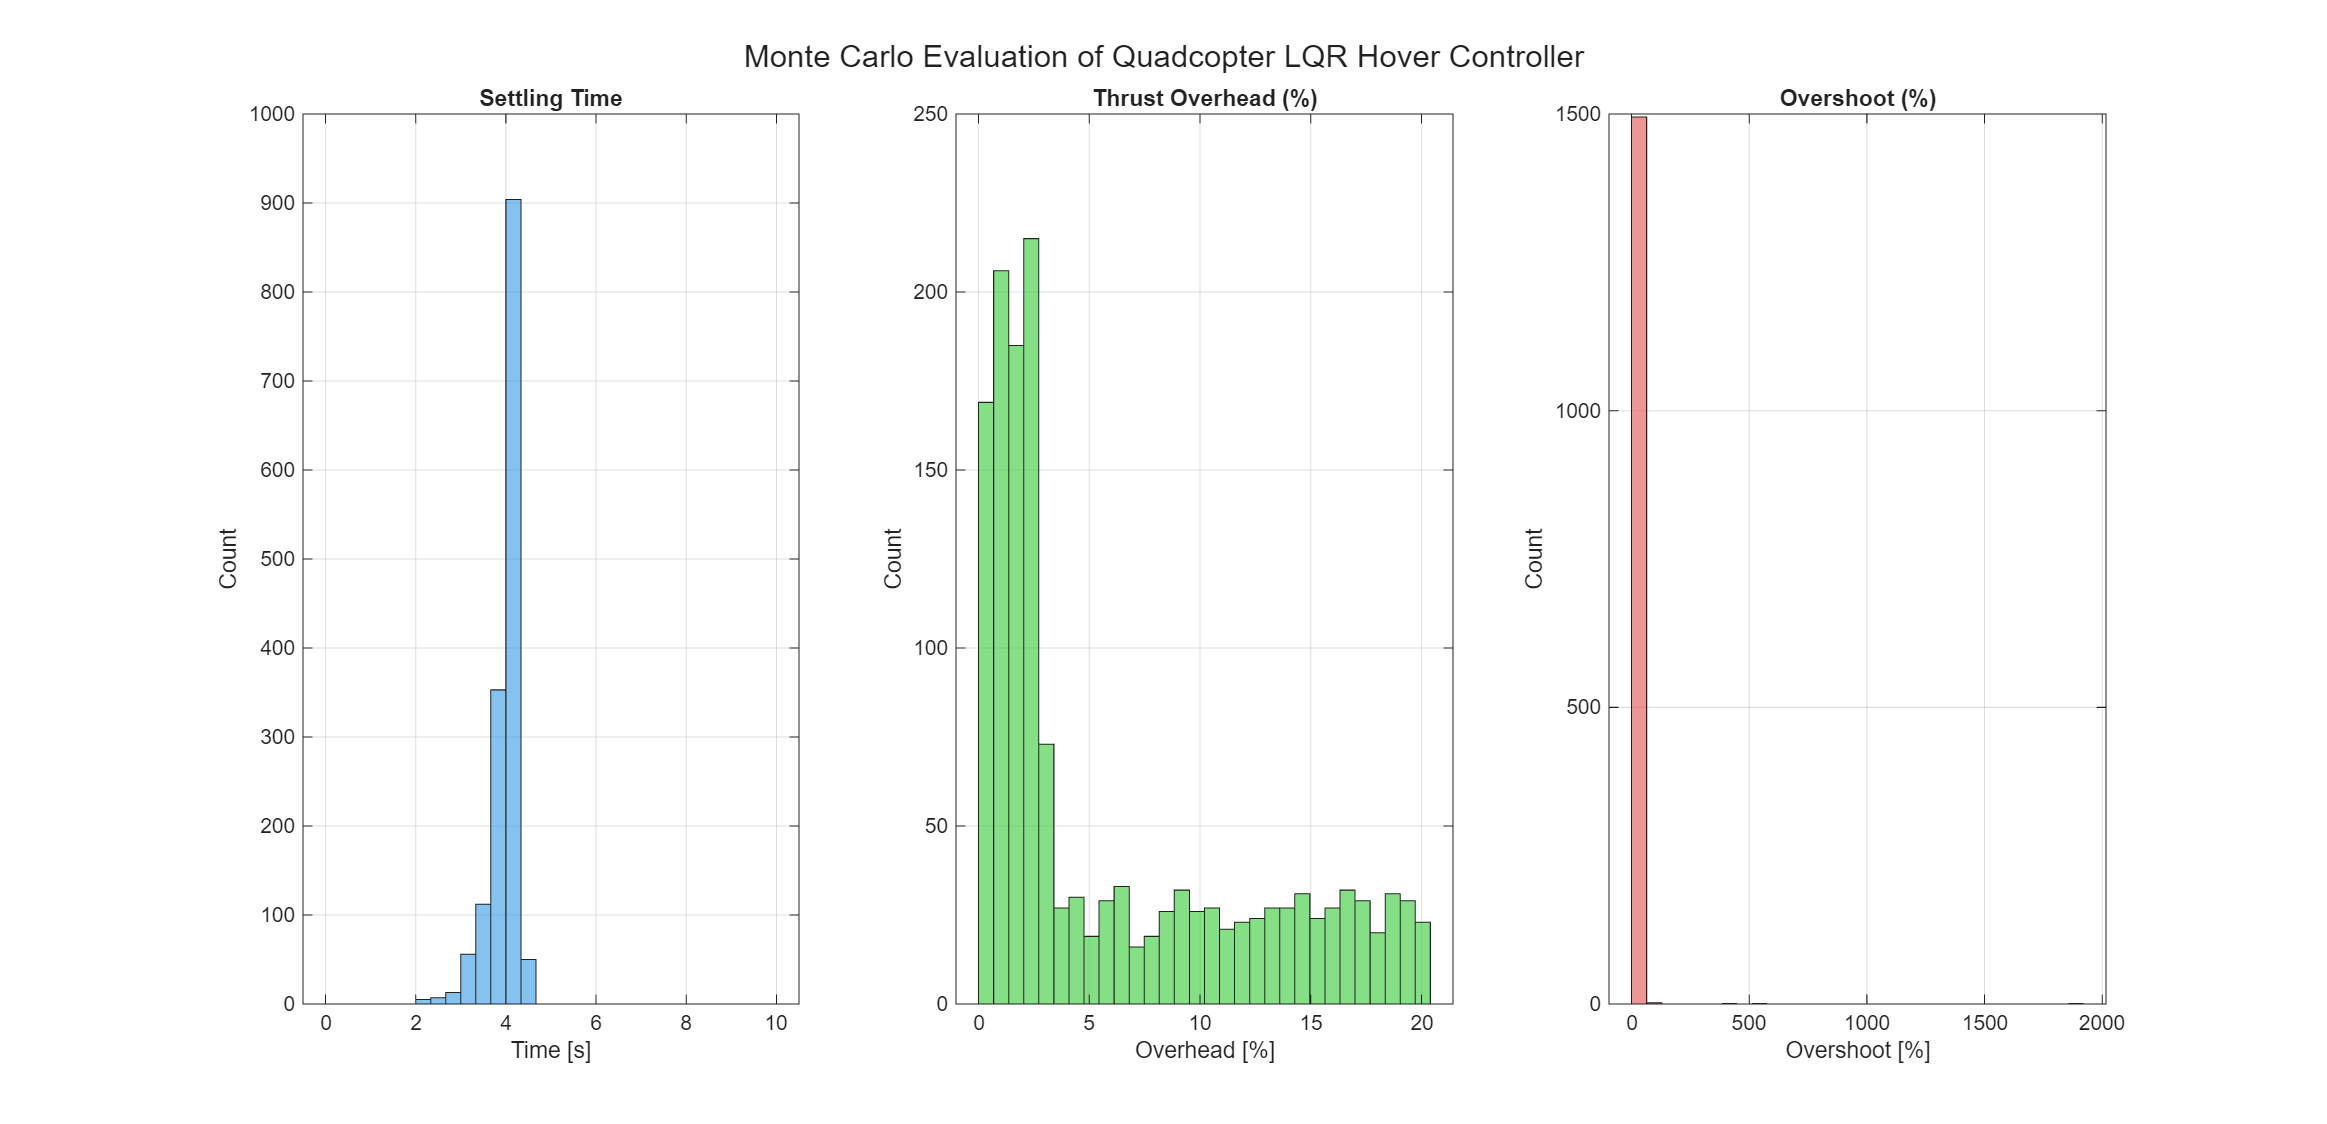
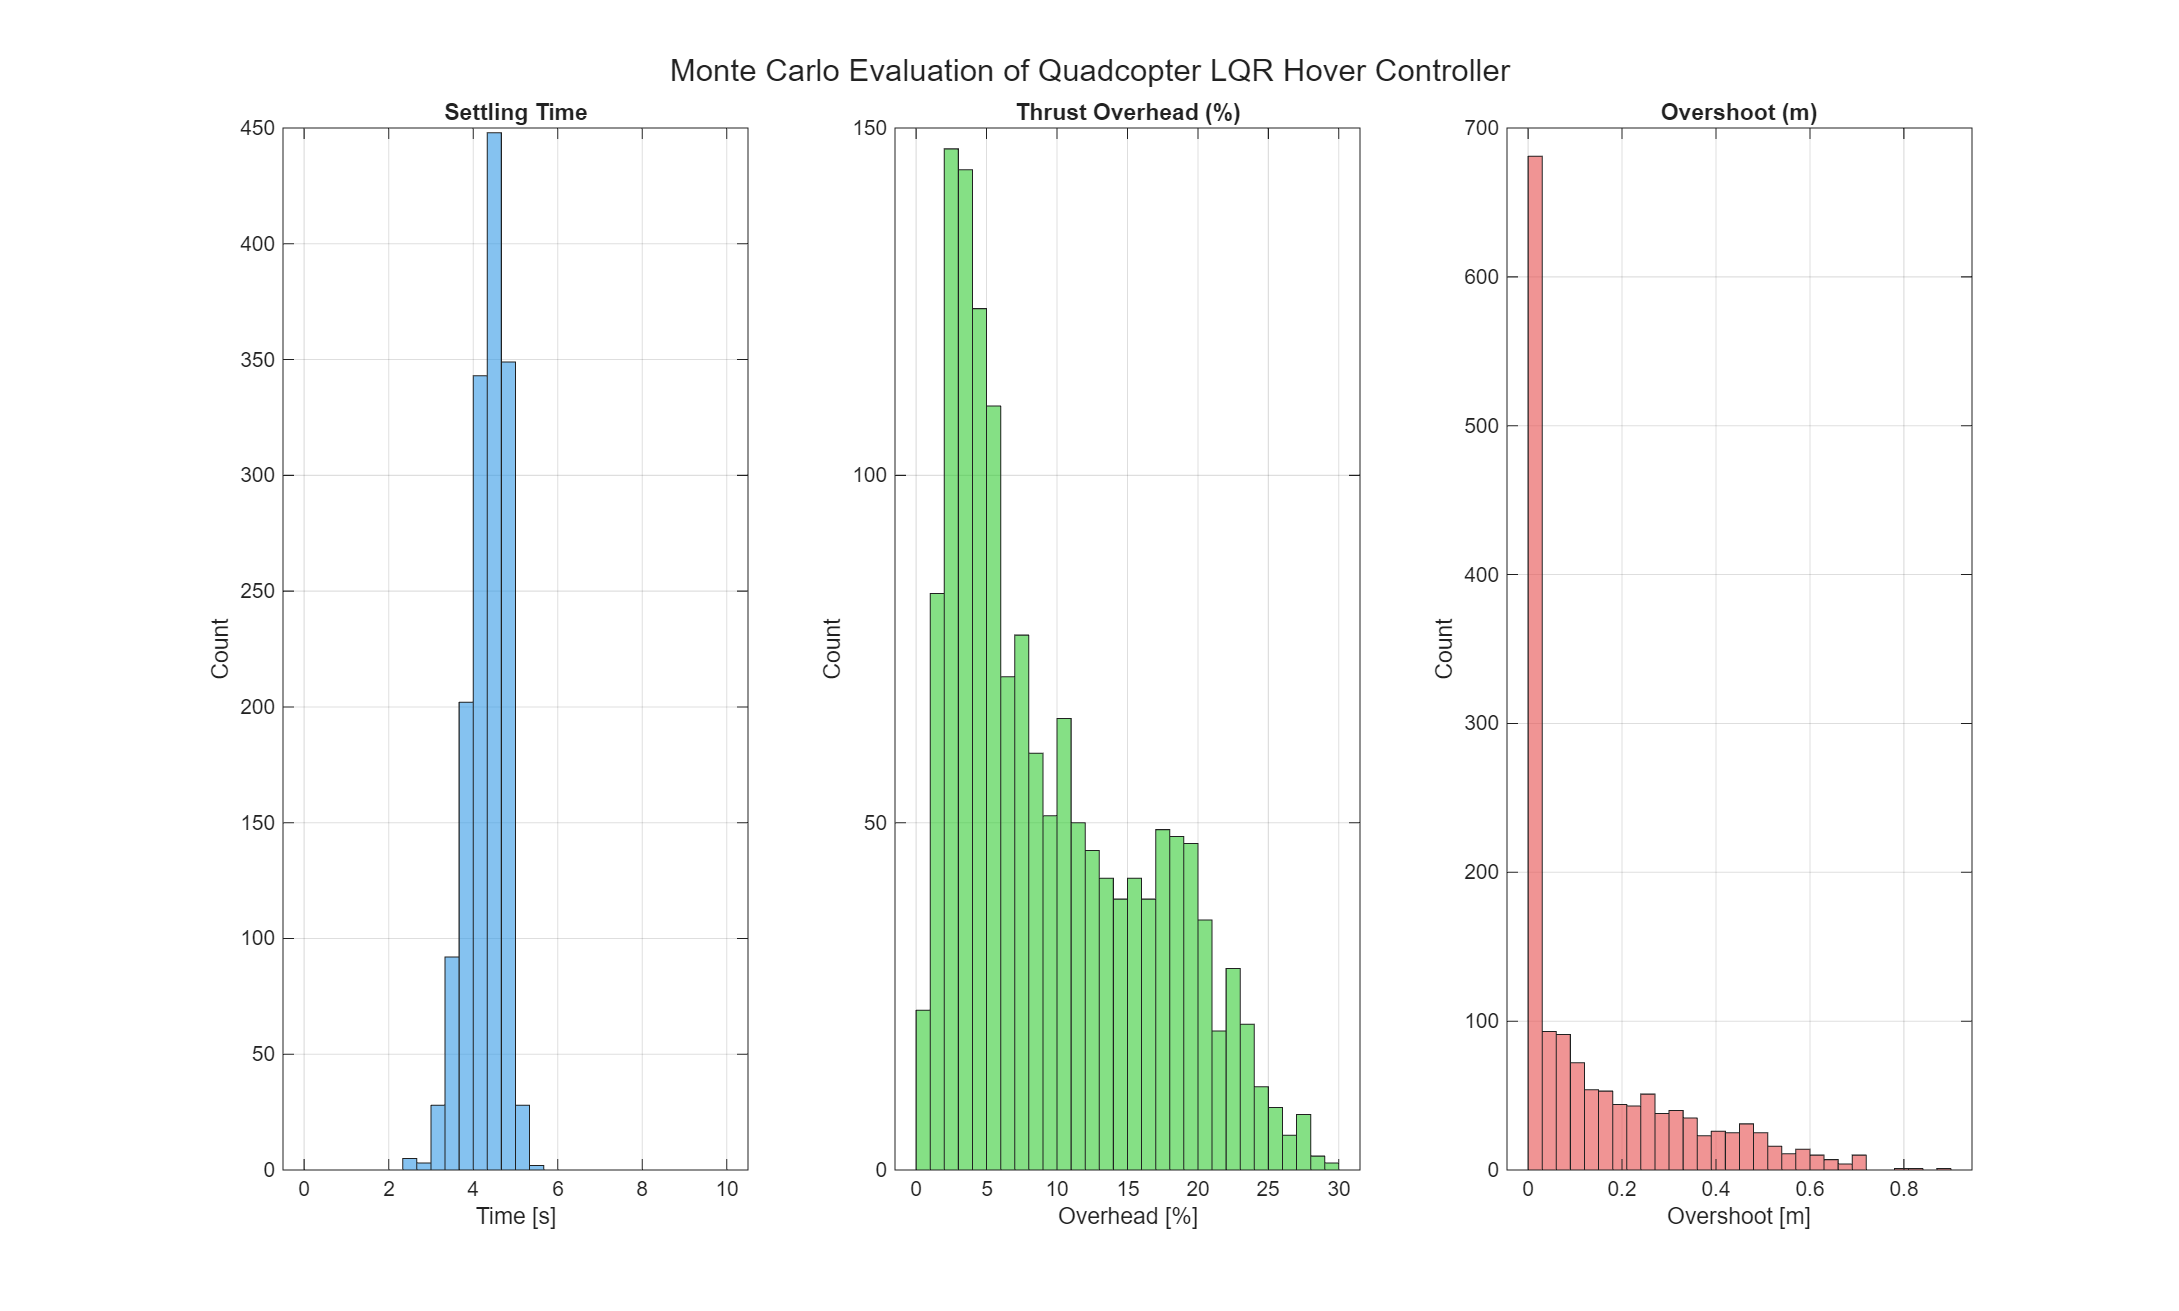
Add summary statistics to Monte Carlo simulation

diff --git a/src/monteCarloSim.m b/src/monteCarloSim.m
@@ -25,12 +25,12 @@ rng(42);
 
 % Define the bounds of the initial condition windows on each state
 initWindows = [ ...
+    -1.0 1.0; % x
+    -1.0 1.0; % y
+    -1.0 1.0; % z
     -1.0 1.0;
     -1.0 1.0;
     -1.0 1.0;
-    0.0 0.0;
-    0.0 0.0;
-    0.0 0.0;
     0.0 0.0;
     0.0 0.0;
     0.0 0.0;
@@ -78,7 +78,7 @@ didSettle = zeros(numTrials,1);
 thrustOverhead = zeros(numTrials,1);
 
 % Define storage for each trial's percent overshoot
-overshootPercent = zeros(numTrials,1);
+overshoot = zeros(numTrials,1);
 
 % Iterate trials
 for trial = 1:numTrials
@@ -171,15 +171,20 @@ for trial = 1:numTrials
     % maximum trial thrust and the hover thrust. 
     thrustOverhead(trial) = 100 * (maxThrustCommand - Fc_hover) / Fc_hover;
 
-    % Compute overshoot: Find the overshoot percent of each state over its
-    % initial condition, then take the largest from all 12. Record that as
-    % overshoot percentage.
+    % Compute overshoot: I edited this portion recently. I redefine
+    % overshoot as simply an absolute value of the maximum deflection on
+    % only positional states. (Not across all states anymore).
     overshootEachState = zeros(12,1);
-    for stateIndex = 1:12
+    for stateIndex = 1:3 % Changed to only measure states 1 to 3
         initialMagnitude = abs(initialState(stateIndex));
-        overshootEachState(stateIndex) = 100 * maxOppositeDeflection(stateIndex) / initialMagnitude;
+        if initialMagnitude > 0
+            overshootEachState(stateIndex) = maxOppositeDeflection(stateIndex);
+        else
+            % Prevent division by zero
+            overshootEachState(stateIndex) = 0;
+        end
     end
-    overshootPercent(trial) = max(overshootEachState);
+    overshoot(trial) = max(overshootEachState);
 
 end
 
@@ -193,7 +198,7 @@ medianSettle = median(settleTimes(settledIndices));
 meanSettle = mean(settleTimes(settledIndices));
 
 % Configure histogram bins (30 bins)
-edgesST = linspace(0, Tfinal, 31);
+edgesSettleTime = linspace(0, Tfinal, 31);
 
 % Plot the results
 figure;
@@ -201,7 +206,7 @@ figure;
 sgtitle('Monte Carlo Evaluation of Quadcopter LQR Hover Controller');
 
 subplot(1,3,1);
-histogram(settleTimes(settledIndices), edgesST, 'FaceColor', [0.2 0.6 0.9]);
+histogram(settleTimes(settledIndices), edgesSettleTime, 'FaceColor', [0.2 0.6 0.9]);
 title('Settling Time');
 xlabel('Time [s]'); ylabel('Count'); grid on; box on;
 
@@ -211,11 +216,41 @@ title('Thrust Overhead (%)');
 xlabel('Overhead [%]'); ylabel('Count'); grid on; box on;
 
 subplot(1,3,3);
-histogram(overshootPercent, 30, 'FaceColor', [0.9 0.3 0.3]); 
-title('Overshoot (%)');
-xlabel('Overshoot [%]'); ylabel('Count'); grid on; box on;
+histogram(overshoot, 30, 'FaceColor', [0.9 0.3 0.3]); 
+title('Overshoot (m)');
+xlabel('Overshoot [m]'); ylabel('Count'); grid on; box on;
 
 % Show simulation statistics (mean settling, median settling, % settled)
 fprintf('Settled: %d / %d (%.1f%%)\n', sum(didSettle), numTrials, 100 * sum(didSettle) / numTrials);
 fprintf('Median Settling Time: %.3f s\n', medianSettle);
 fprintf('Mean Settling Time: %.3f s\n', meanSettle);
+
+%% calculate important stats
+
+% Extract indices of settled trials
+settledIndices = find(didSettle==1);
+
+% Compute the percent of trials that settle
+pctSettled = 100 * numel(settledIndices) / numTrials;
+
+% Settling Time Statistics
+STMean = mean(settleTimes(settledIndices));
+STMedian = median(settleTimes(settledIndices));
+STP95 = prctile(settleTimes(settledIndices), 95);
+
+% Thrust Overhead Statistics
+thrustOverheadMean= mean(thrustOverhead);
+thrustOverheadMedian = median(thrustOverhead);
+thrustOverheadP95 = prctile(thrustOverhead, 95);
+
+% Overshoot Statistics
+overshootMean = mean(overshoot);
+overshootMedian = median(overshoot);
+overshootP95 = prctile(overshoot, 95);
+
+% Print Results
+fprintf('\n--- Monte Carlo Simulation Results Summary ---\n');
+fprintf('Settled: %d / %d (%.1f%%)\n', numel(settledIndices), numTrials, pctSettled);
+fprintf('Settling Time [s]: mean=%.3f  median=%.3f  p95=%.3f\n', STMean, STMedian, STP95);
+fprintf('Thrust Overhead [%%]: mean=%.2f  median=%.2f  p95=%.2f\n', thrustOverheadMean, thrustOverheadMedian, thrustOverheadP95);
+fprintf('Overshoot [m]: mean=%.3f  median=%.3f  p95=%.3f\n', overshootMean, overshootMedian, overshootP95);
